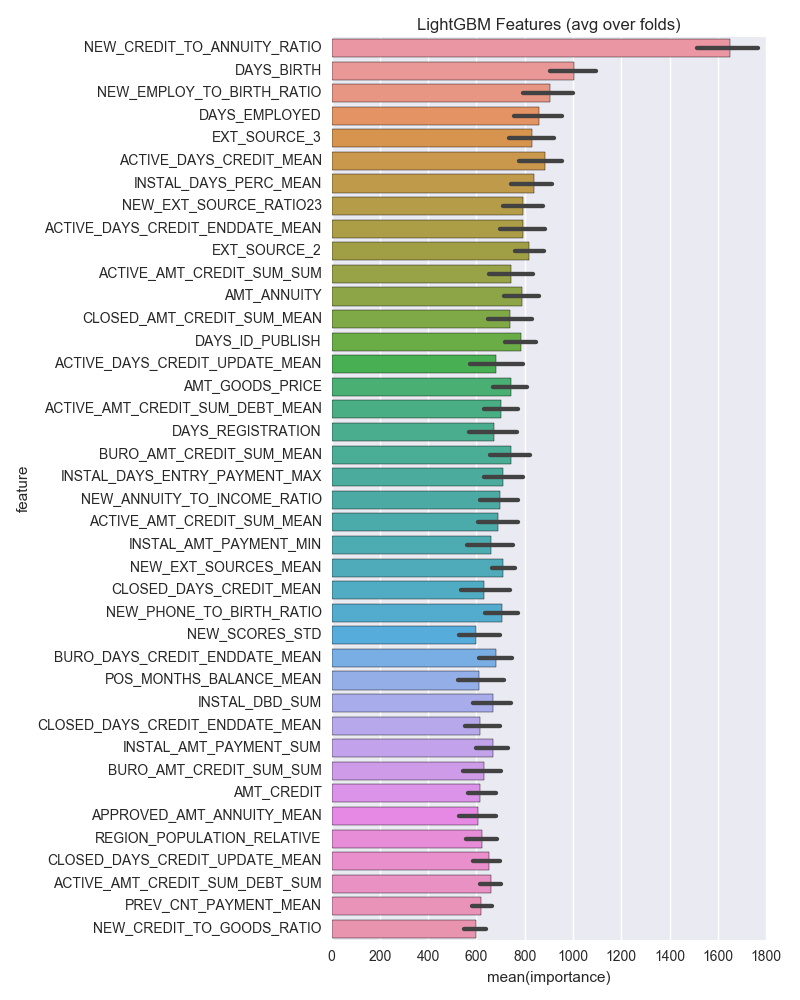
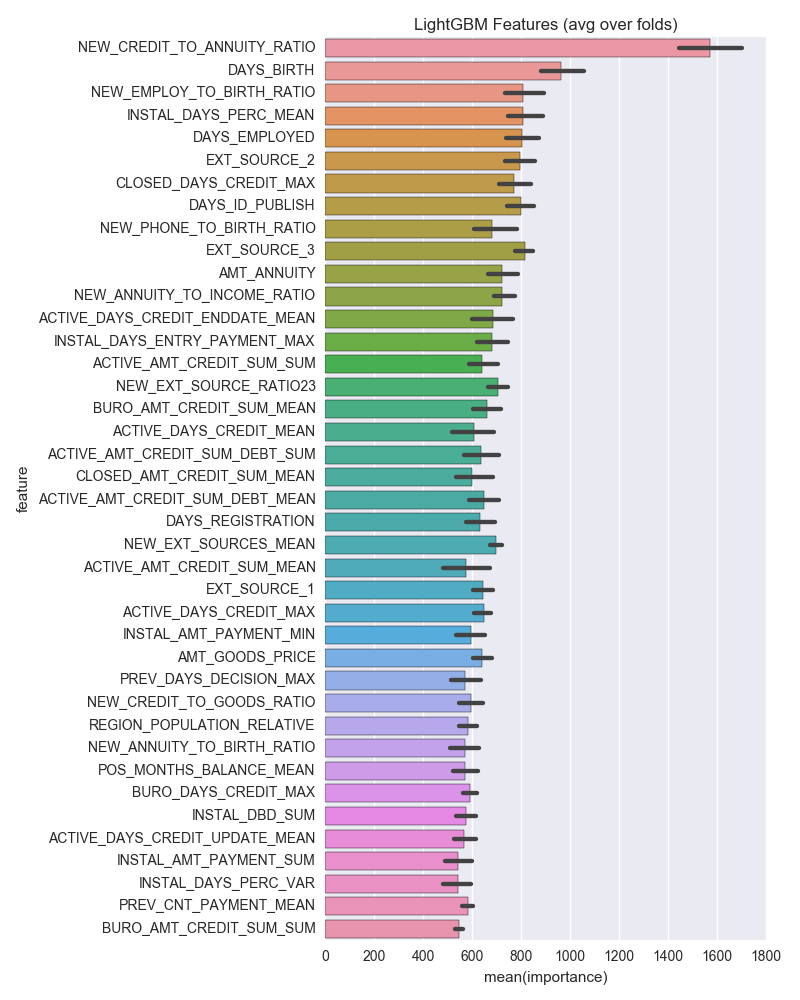
prev appの新特徴量を修正

Changed region(s): [[0.0625, 0.031, 0.9062, 0.992], [0.5312, 0.0, 0.8438, 0.031], [0.8438, 0.031, 0.9375, 0.062]]

diff --git a/LightGBM_with_Simple_Features.py b/LightGBM_with_Simple_Features.py
@@ -161,6 +161,11 @@ def previous_applications(num_rows = None, nan_as_category = True):
     prev['DAYS_TERMINATION'].replace(365243, np.nan, inplace= True)
     # Add feature: value ask / value received percentage
     prev['APP_CREDIT_PERC'] = prev['AMT_APPLICATION'] / prev['AMT_CREDIT']
+
+    # ここから新規に追加した特徴量
+    prev['NEW_PREV_CREDIT_TO_ANNUITY_RATIO'] = prev['AMT_CREDIT'] / prev['AMT_ANNUITY']
+    prev['NEW_PREV_CREDIT_TO_GOODS_RATIO'] = prev['AMT_CREDIT'] / prev['AMT_GOODS_PRICE']
+
     # Previous applications numeric features
     num_aggregations = {
         'AMT_ANNUITY': [ 'max', 'mean'],
@@ -173,6 +178,8 @@ def previous_applications(num_rows = None, nan_as_category = True):
         'RATE_DOWN_PAYMENT': [ 'max', 'mean'],
         'DAYS_DECISION': [ 'max', 'mean'],
         'CNT_PAYMENT': ['mean', 'sum'],
+        'NEW_PREV_CREDIT_TO_ANNUITY_RATIO':['mean','var','max','min'],
+        'NEW_PREV_CREDIT_TO_GOODS_RATIO':['mean','var','max','min']
     }
     # Previous applications categorical features
     cat_aggregations = {}
@@ -191,12 +198,6 @@ def previous_applications(num_rows = None, nan_as_category = True):
     refused_agg = refused.groupby('SK_ID_CURR').agg(num_aggregations)
     refused_agg.columns = pd.Index(['REFUSED_' + e[0] + "_" + e[1].upper() for e in refused_agg.columns.tolist()])
     prev_agg = prev_agg.join(refused_agg, how='left', on='SK_ID_CURR')
-
-    # ここから新規に追加した特徴量
-    prev_agg['NEW_PREV_CREDIT_TO_ANNUITY_RATIO_MEAN'] = prev_agg['PREV_AMT_CREDIT_MEAN'] / prev_agg['PREV_AMT_ANNUITY_MEAN']
-    prev_agg['NEW_PREV_CREDIT_TO_ANNUITY_RATIO_MAX'] = prev_agg['PREV_AMT_CREDIT_MAX'] / prev_agg['PREV_AMT_ANNUITY_MAX']
-    prev_agg['NEW_PREV_CREDIT_TO_GOODS_RATIO_MEAN'] = prev_agg['PREV_AMT_CREDIT_MEAN'] / prev_agg['PREV_AMT_GOODS_PRICE_MEAN']
-    prev_agg['NEW_PREV_CREDIT_TO_GOODS_RATIO_MAX'] = prev_agg['PREV_AMT_CREDIT_MAX'] / prev_agg['PREV_AMT_GOODS_PRICE_MAX']
 
     del refused, refused_agg, approved, approved_agg, prev
     gc.collect()
